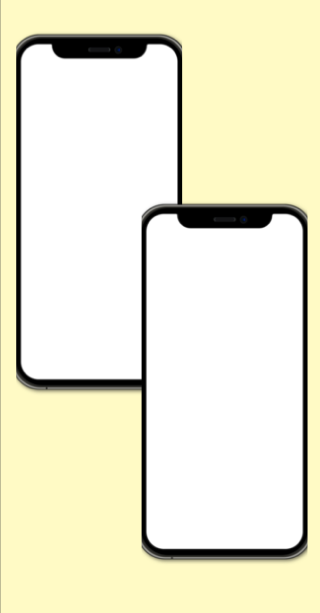
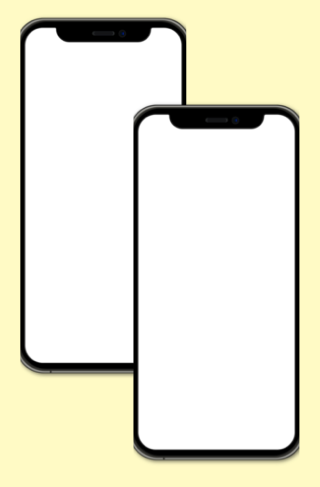
Project Page
pushing updates on new page

Changed region(s): [[0.0312, 0.0308, 0.9688, 0.9548]]

diff --git a/myprojects.html b/myprojects.html
@@ -18,7 +18,39 @@
 </head>
 
 <body>
-
+    <div class="introcontainer">
+        <h1>My Projects</h1>
+    </div>
+    <div class="myprojectscontainer">
+        <div class="myprojectscontainergrid" style="grid-column-start: 2; grid-column-end: 3; grid-row-start: 2; grid-row-end: 3;">
+            <img src="/images/sample_projectdeskktop.png" alt="example project photos" class="myprojectscontainerimage">
+            <div class="myprojectscontainertext">
+                <h3> Project Name </h3>
+                <p> Lorem ipsum dolor sit amet consectetur. Facilisis integer tortor ac lorem sed. Tellus nunc magna dignissim eget arcu sodales aliquet nunc.</p>
+            </div>
+        </div>
+        <div class="myprojectscontainergrid" style="grid-column-start: 4; grid-column-end: 5; grid-row-start: 2; grid-row-end: 3;">
+            <img src="/images/sample_projectdeskktop.png" alt="example project photos" class="myprojectscontainerimage">
+            <div class="myprojectscontainertext">
+                <h3> Project Name </h3>
+                <p> Lorem ipsum dolor sit amet consectetur. Facilisis integer tortor ac lorem sed. Tellus nunc magna dignissim eget arcu sodales aliquet nunc.</p>
+            </div>
+        </div>
+        <div class="myprojectscontainergrid" style="grid-column-start: 2; grid-column-end: 3; grid-row-start: 4; grid-row-end: 5;">
+            <img src="/images/sample_projectdeskktop.png" alt="example project photos" class="myprojectscontainerimage">
+            <div class="myprojectscontainertext">
+                <h3> Project Name </h3>
+                <p> Lorem ipsum dolor sit amet consectetur. Facilisis integer tortor ac lorem sed. Tellus nunc magna dignissim eget arcu sodales aliquet nunc.</p>
+            </div>
+        </div>
+        <div class="myprojectscontainergrid" style="grid-column-start: 4; grid-column-end: 5; grid-row-start: 4; grid-row-end: 5;">
+            <img src="/images/sample_projectdeskktop.png" alt="example project photos" class="myprojectscontainerimage">
+            <div class="myprojectscontainertext">
+                <h3> Project Name </h3>
+                <p> Lorem ipsum dolor sit amet consectetur. Facilisis integer tortor ac lorem sed. Tellus nunc magna dignissim eget arcu sodales aliquet nunc.</p>
+            </div>
+        </div>
+    </div>
 </body>
 
 

diff --git a/uiuxskills.html b/uiuxskills.html
@@ -27,14 +27,14 @@
             Lorem ipsum dolor sit amet consectetur. Enim felis varius magnis ultricies egestas ut ultrices risus. Eu faucibus bibendum congue ac lectus.
         </p>
         <ul>
-            <li> Lorem ipsum: Lorem ipsum dolor sit amet consectetur. </li>
-            <li> Lorem ipsum: Lorem ipsum dolor sit amet consectetur. </li>
-            <li> Lorem ipsum: Lorem ipsum dolor sit amet consectetur. </li>
-            <li> Lorem ipsum: Lorem ipsum dolor sit amet consectetur. </li>
-            <li> Lorem ipsum: Lorem ipsum dolor sit amet consectetur. </li>
+            <li class="skillslist"> Lorem ipsum: Lorem ipsum dolor sit amet consectetur. </li>
+            <li class="skillslist"> Lorem ipsum: Lorem ipsum dolor sit amet consectetur. </li>
+            <li class="skillslist"> Lorem ipsum: Lorem ipsum dolor sit amet consectetur. </li>
+            <li class="skillslist"> Lorem ipsum: Lorem ipsum dolor sit amet consectetur. </li>
+            <li class="skillslist"> Lorem ipsum: Lorem ipsum dolor sit amet consectetur. </li>
         </ul>
     </div>
-   <div><img crc="/images/sample_skillsdemo.png" alt="two iphone project demonstrations"></div>
+   <div><img src="/images/sample_skillsdemo.png" alt="two iphone project demonstrations" style="width: 300px; height: 500px;"></div>
 </div>
 </body>
 

diff --git a/css/style.css b/css/style.css
@@ -100,13 +100,40 @@ padding: 25px;
 }
 
 .skillstext {
-    
+    width: 500px;
+}
+
+.skillslist {
+    margin: 30px;
 }
 
 /* projects page */
 
+.myprojectscontainer {
+    display: grid;
+    grid-template-columns: 1fr 500px 15px 500px 1fr;
+    grid-template-rows: 10px 400px 5% 400px 10%;
+    margin-bottom: 200px;
+}
 
+.myprojectscontainergrid {
+    display:flex;
+    flex-direction: column;
+    width: 500px;
+}
 
+.myprojectscontainertext {
+    outline: solid darkolivegreen 3px;
+    margin-top: 10px;
+    margin-bottom: 10px;
+    padding-left: 10px;
+}
+
+.myprojectscontainerimage {
+    width: 500px; 
+    height: 300px; 
+    outline: solid darkolivegreen 2px;
+}
 
 
 /* Footer things */
